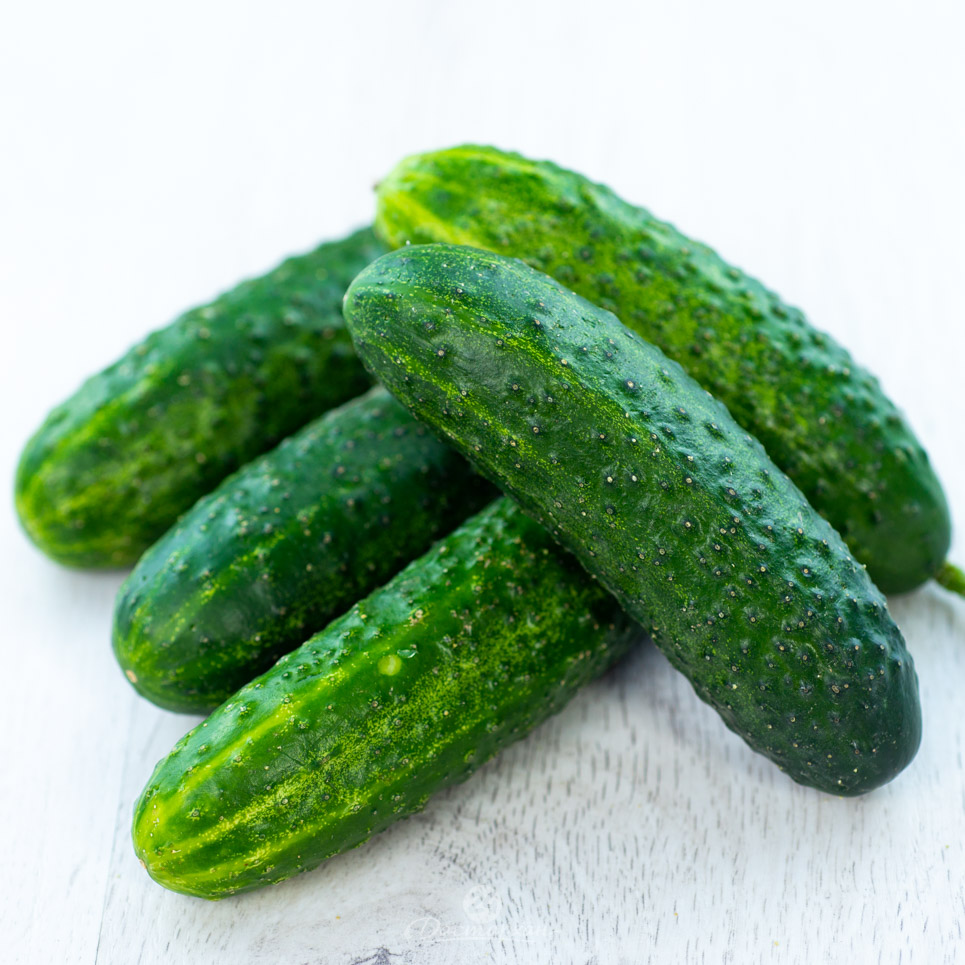
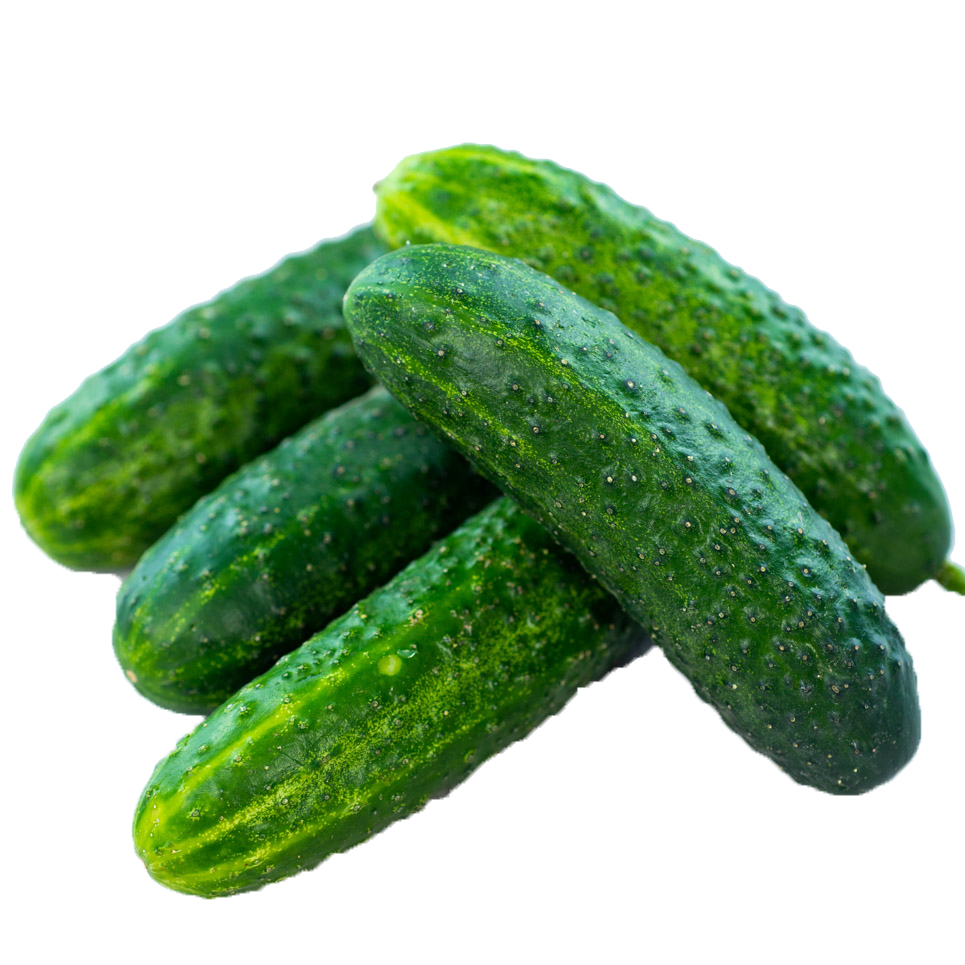
changed design product images

diff --git a/src/components/CategoryItem/CategoryItem.jsx b/src/components/CategoryItem/CategoryItem.jsx
@@ -39,7 +39,7 @@ export const CategoryItem = (props) => {
                 position="bottom-left"
             />
 
-            <img className={styles.productImage} src={img} />
+            <div className={styles.productImageBack}><img className={styles.productImage} src={img} /></div>
             <div className={styles.productName}>{title}</div>
             <div className={styles.productPrice}>{price} ₽ / {typeMeasuring}</div>
             <div className={styles.aboutWeight}>

diff --git a/src/services/productsService.jsx b/src/services/productsService.jsx
@@ -17,7 +17,7 @@ export const productsService = {
         return await this.getResource(`category/${category}/product`)
     },
 
-    async addProductToCard(product) {
+     addProductToCard(product) {
         if (localStorage.getItem('products')) {
             const products = JSON.parse(localStorage.getItem('products'))
             localStorage.setItem(

diff --git a/src/components/CategoryItem/CategoryItem.module.css b/src/components/CategoryItem/CategoryItem.module.css
@@ -7,10 +7,19 @@
     background: #D3EAC3;
 }
 
+.productImageBack{
+    display: flex;
+    align-items: center;
+    justify-content: center;
+    height: 150px;
+    width: 100%;
+    border-radius: 10px;
+    background: #ffffff;
+}
+
 .productImage {
     z-index: 10;
     height: 150px;
-    border-radius: 10px;
 }
 
 .productName {

diff --git a/src/components/ItemsCartCount/ItemsCartCount.jsx b/src/components/ItemsCartCount/ItemsCartCount.jsx
@@ -3,8 +3,10 @@ import React, { useEffect, useState } from 'react'
 export const ItemsCartCount = () => {
 
     const [itemsCart, setItemsCart] = useState(
-        JSON.parse(localStorage.getItem('products')).length
+        JSON.parse(localStorage.getItem('products')).length || 0
     )
+
+    //
 
     return <div>{itemsCart}</div>
 }
